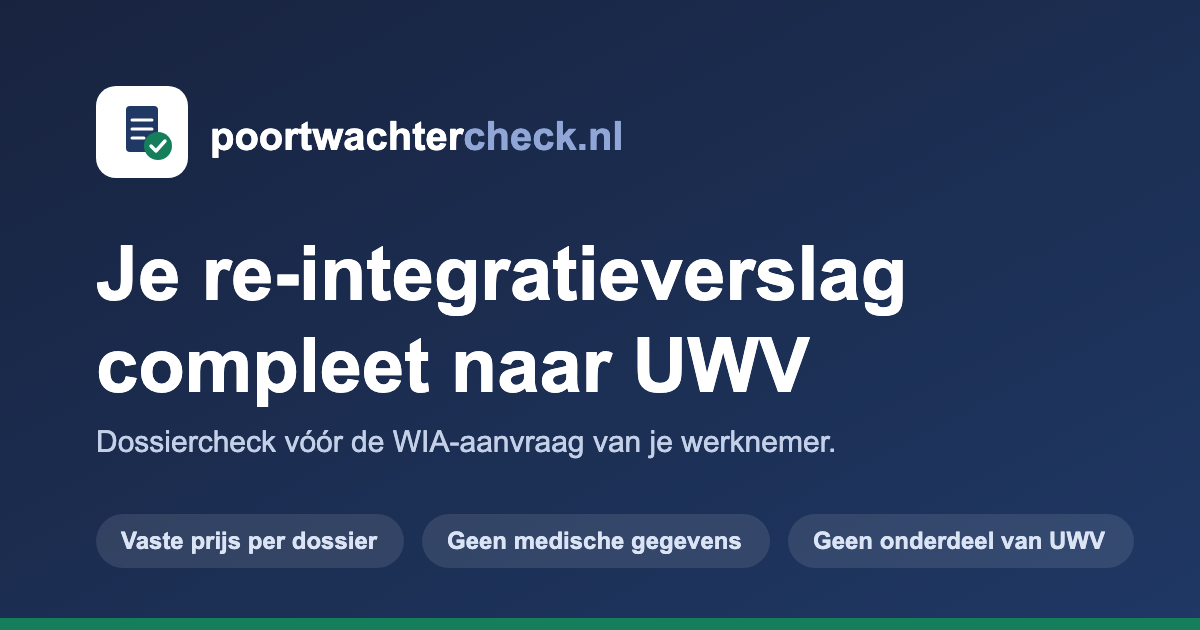
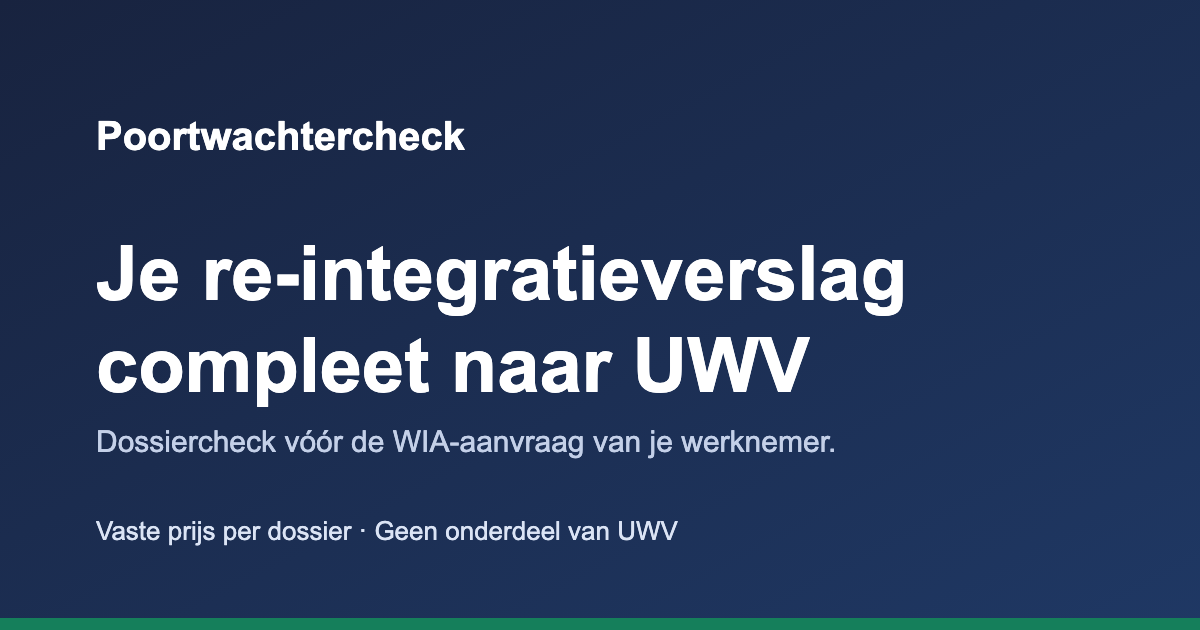
Minder opmaak: woordmerk zonder icoon, geen voorbeeldkaart, iconen of labels
- Logo is nu alleen het woord "Poortwachtercheck"; favicon een P
- Hero zonder voorbeeldkaart en iconenrij, één kolom
- Cijfers als gewone zin in plaats van drie kaarten
- Stappen met gewone cijfers, tarieven zonder label/uitlichting/vinkjes
- "Wat ik wel en niet doe" zonder iconen; geen hoofdletterlabel
- Deelplaatje met woordmerk en een gewone regel tekst

Claude-Session: https://claude.ai/code/session_01YSQY1Be7BCh4PpprnZJgvH

Changed region(s): [[0.0617, 0.1206, 0.5242, 0.3016], [0.0617, 0.8143, 0.6167, 0.8746], [0.6783, 0.8444, 0.925, 0.8746]]

diff --git a/app.js b/app.js
@@ -35,7 +35,7 @@
     return url;
   }
   function Merk({ href, style }) {
-    return /* @__PURE__ */ React.createElement("a", { className: "brand", href: href || "#top", style }, /* @__PURE__ */ React.createElement("span", { className: "mark" }, I.shield), /* @__PURE__ */ React.createElement("span", null, "Poortwachter", /* @__PURE__ */ React.createElement("span", { className: "tld" }, "check")));
+    return /* @__PURE__ */ React.createElement("a", { className: "brand", href: href || "#top", style }, /* @__PURE__ */ React.createElement("span", null, "Poortwachtercheck"));
   }
 
   // src/landing.jsx
@@ -57,23 +57,11 @@
   function DirectNaar() {
     return /* @__PURE__ */ React.createElement("section", { className: "section smal", id: "direct" }, /* @__PURE__ */ React.createElement("div", { className: "wrap" }, /* @__PURE__ */ React.createElement("h2", { className: "kop" }, "Direct naar"), /* @__PURE__ */ React.createElement("div", { className: "direct" }, DIRECT.map((d, i) => /* @__PURE__ */ React.createElement("a", { key: i, href: d.h }, /* @__PURE__ */ React.createElement("span", null, d.t), I.arrowRight)))));
   }
-  var VOORBEELD = [
-    { t: "Probleemanalyse", ok: true },
-    { t: "Plan van aanpak, ondertekend", ok: true },
-    { t: "Eerstejaarsevaluatie", ok: false, n: "ontbreekt" },
-    { t: "Actueel oordeel bedrijfsarts", ok: true },
-    { t: "Eindevaluatie", ok: false, n: "handtekening werknemer mist" }
-  ];
   function Hero() {
-    return /* @__PURE__ */ React.createElement("section", { className: "hero", id: "top" }, /* @__PURE__ */ React.createElement("div", { className: "wrap hero-grid" }, /* @__PURE__ */ React.createElement("div", { className: "reveal" }, /* @__PURE__ */ React.createElement("div", { className: "kop-balk" }, /* @__PURE__ */ React.createElement("h1", null, "Je re-integratieverslag compleet naar UWV"), /* @__PURE__ */ React.createElement("p", { className: "lead lead-breed" }, "Is je werknemer bijna twee jaar ziek? Ik kom langs, loop het verzuimdossier na en zorg dat het verslag volledig en ondertekend klaarligt.")), /* @__PURE__ */ React.createElement("div", { className: "hero-cta" }, /* @__PURE__ */ React.createElement("a", { className: "btn btn-primary btn-lg", href: "#contact" }, "Dossier laten nakijken"), /* @__PURE__ */ React.createElement("a", { className: "btn btn-ghost btn-lg", href: "#checklist" }, "Doe zelf de snelle check")), /* @__PURE__ */ React.createElement("div", { className: "hero-trust" }, /* @__PURE__ */ React.createElement("span", null, I.checkSm, " Vaste prijs per dossier"), /* @__PURE__ */ React.createElement("span", null, I.building, " Bij jou op locatie"), /* @__PURE__ */ React.createElement("span", null, I.lock, " Medische stukken blijven bij de bedrijfsarts"))), /* @__PURE__ */ React.createElement("div", { className: "hero-visual reveal" }, /* @__PURE__ */ React.createElement("div", { className: "dossier-kaart" }, /* @__PURE__ */ React.createElement("div", { className: "dk-kop" }, /* @__PURE__ */ React.createElement("span", { className: "ht-dot" }), "Voorbeeld van een dossiercheck"), /* @__PURE__ */ React.createElement("ul", null, VOORBEELD.map((v, i) => /* @__PURE__ */ React.createElement("li", { key: i, className: v.ok ? "ok" : "mis" }, /* @__PURE__ */ React.createElement("span", { className: "dk-ico" }, v.ok ? I.checkSm : I.x), /* @__PURE__ */ React.createElement("span", { className: "dk-t" }, v.t), !v.ok && /* @__PURE__ */ React.createElement("span", { className: "pill pill-flag" }, v.n)))), /* @__PURE__ */ React.createElement("div", { className: "dk-voet" }, "2 punten om te herstellen v\xF3\xF3r de WIA-aanvraag")))));
+    return /* @__PURE__ */ React.createElement("section", { className: "hero", id: "top" }, /* @__PURE__ */ React.createElement("div", { className: "wrap hero-enkel" }, /* @__PURE__ */ React.createElement("div", { className: "reveal" }, /* @__PURE__ */ React.createElement("div", { className: "kop-balk" }, /* @__PURE__ */ React.createElement("h1", null, "Je re-integratieverslag compleet naar UWV"), /* @__PURE__ */ React.createElement("p", { className: "lead lead-breed" }, "Is je werknemer bijna twee jaar ziek? Ik kom langs, loop het verzuimdossier na en zorg dat het verslag volledig en ondertekend klaarligt.")), /* @__PURE__ */ React.createElement("div", { className: "hero-cta" }, /* @__PURE__ */ React.createElement("a", { className: "btn btn-primary btn-lg", href: "#contact" }, "Dossier laten nakijken"), /* @__PURE__ */ React.createElement("a", { className: "btn btn-ghost btn-lg", href: "#checklist" }, "Doe zelf de snelle check")), /* @__PURE__ */ React.createElement("p", { className: "hero-noot" }, "Vaste prijs per dossier. Ik kom bij je op locatie. Medische stukken blijven bij de bedrijfsarts."))));
   }
-  var CIJFERS = [
-    { g: "ruim 4.000", t: "loonsancties legde UWV op in 2024" },
-    { g: "\xB1 45%", t: "daarvan was administratief: het verslag was niet compleet" },
-    { g: "3 + 6 weken", t: "kost herstel al snel: 3 weken beoordeling door UWV, daarna loopt het loon nog 6 weken door" }
-  ];
   function Probleem() {
-    return /* @__PURE__ */ React.createElement("section", { className: "section tint", id: "waarom" }, /* @__PURE__ */ React.createElement("div", { className: "wrap" }, /* @__PURE__ */ React.createElement("div", { className: "sec-head reveal" }, /* @__PURE__ */ React.createElement("span", { className: "eyebrow" }, /* @__PURE__ */ React.createElement("span", { className: "dot" }), "Waarom dit ertoe doet"), /* @__PURE__ */ React.createElement("h2", null, "Een ontbrekend stuk kan maanden loon kosten"), /* @__PURE__ */ React.createElement("p", null, "UWV kijkt eerst of het re-integratieverslag compleet is, en pas daarna naar de inhoud. Mist er een onderdeel of een handtekening, dan volgt een administratieve loonsanctie: je betaalt het loon langer door, tot het verslag in orde is.")), /* @__PURE__ */ React.createElement("div", { className: "cijfers" }, CIJFERS.map((c, i) => /* @__PURE__ */ React.createElement("div", { className: "cijfer card reveal", key: i }, /* @__PURE__ */ React.createElement("div", { className: "cijfer-g" }, c.g), /* @__PURE__ */ React.createElement("p", null, c.t)))), /* @__PURE__ */ React.createElement("p", { className: "bron reveal" }, "Cijfers: ", /* @__PURE__ */ React.createElement("a", { href: "https://uwvjaarverslag.nl/external/asset/download/project/f9b7da0a-03ec-0000-58b5-7efa5990235f/name/uwv-kwantitatieve-Informatie-2025T3%202.0.pdf", target: "_blank", rel: "noopener" }, "UWV, kwantitatieve informatie"), ". Herstel en doorlooptijd: ", /* @__PURE__ */ React.createElement("a", { href: "https://www.rijksoverheid.nl/documenten/publicaties/2024/09/30/werkproces-uwv-toetsen-riv-en-opleggen-loonsanctie", target: "_blank", rel: "noopener" }, "werkproces UWV toetsen re-integratieverslag"), ". Dit soort sanctie is te voorkomen, omdat het om volledigheid gaat en niet om een oordeel over de re-integratie.")));
+    return /* @__PURE__ */ React.createElement("section", { className: "section tint", id: "waarom" }, /* @__PURE__ */ React.createElement("div", { className: "wrap" }, /* @__PURE__ */ React.createElement("div", { className: "sec-head reveal" }, /* @__PURE__ */ React.createElement("span", { className: "eyebrow" }, /* @__PURE__ */ React.createElement("span", { className: "dot" }), "Waarom dit ertoe doet"), /* @__PURE__ */ React.createElement("h2", null, "Een ontbrekend stuk kan maanden loon kosten"), /* @__PURE__ */ React.createElement("p", null, "UWV kijkt eerst of het re-integratieverslag compleet is, en pas daarna naar de inhoud. Mist er een onderdeel of een handtekening, dan volgt een administratieve loonsanctie: je betaalt het loon langer door, tot het verslag in orde is.")), /* @__PURE__ */ React.createElement("p", { className: "cijfers-tekst reveal" }, "In 2024 legde UWV ruim 4.000 loonsancties op. Bij ongeveer 45% daarvan was het verslag gewoon niet compleet. Herstellen kost al snel drie weken beoordeling door UWV, en daarna loopt het loon nog zes weken door."), /* @__PURE__ */ React.createElement("p", { className: "bron reveal" }, "Cijfers: ", /* @__PURE__ */ React.createElement("a", { href: "https://uwvjaarverslag.nl/external/asset/download/project/f9b7da0a-03ec-0000-58b5-7efa5990235f/name/uwv-kwantitatieve-Informatie-2025T3%202.0.pdf", target: "_blank", rel: "noopener" }, "UWV, kwantitatieve informatie"), ". Herstel en doorlooptijd: ", /* @__PURE__ */ React.createElement("a", { href: "https://www.rijksoverheid.nl/documenten/publicaties/2024/09/30/werkproces-uwv-toetsen-riv-en-opleggen-loonsanctie", target: "_blank", rel: "noopener" }, "werkproces UWV toetsen re-integratieverslag"), ". Dit soort sanctie is te voorkomen, omdat het om volledigheid gaat en niet om een oordeel over de re-integratie.")));
   }
   var ONDERDELEN = [
     { id: "pa", t: "Probleemanalyse van de bedrijfsarts", s: "Rond week 6, plus latere bijstellingen" },
@@ -142,7 +130,6 @@
       naam: "Compleet verzorgd",
       prijs: "vanaf \u20AC 950",
       sub: "per dossier, excl. btw",
-      uitgelicht: true,
       d: "Je wilt dat het geregeld wordt.",
       punten: ["Alles uit de dossiercheck", "Hulp bij de eindevaluatie en het bijwerken van de stukken", "Bewaken dat de bedrijfsarts de medische informatie verstuurt", "Het verslag verzendklaar voor je werknemer"]
     },
@@ -155,16 +142,16 @@
     }
   ];
   function Tarieven() {
-    return /* @__PURE__ */ React.createElement("section", { className: "section", id: "tarieven" }, /* @__PURE__ */ React.createElement("div", { className: "wrap" }, /* @__PURE__ */ React.createElement("div", { className: "sec-head reveal" }, /* @__PURE__ */ React.createElement("span", { className: "eyebrow" }, /* @__PURE__ */ React.createElement("span", { className: "dot" }), "Tarieven"), /* @__PURE__ */ React.createElement("h2", null, "Een vaste prijs per dossier"), /* @__PURE__ */ React.createElement("p", null, "Geen uurtje-factuurtje. Je weet vooraf wat het kost, en dat is een fractie van \xE9\xE9n maand doorbetaald loon.")), /* @__PURE__ */ React.createElement("div", { className: "pakketten" }, PAKKETTEN.map((p, i) => /* @__PURE__ */ React.createElement("div", { className: "pakket card reveal" + (p.uitgelicht ? " uitgelicht" : ""), key: i }, p.uitgelicht && /* @__PURE__ */ React.createElement("span", { className: "pill pill-ok" }, "Alles geregeld"), /* @__PURE__ */ React.createElement("h3", null, p.naam), /* @__PURE__ */ React.createElement("p", { className: "pakket-d" }, p.d), /* @__PURE__ */ React.createElement("div", { className: "pakket-prijs" }, p.prijs), /* @__PURE__ */ React.createElement("div", { className: "pakket-sub" }, p.sub), /* @__PURE__ */ React.createElement("ul", null, p.punten.map((x, j) => /* @__PURE__ */ React.createElement("li", { key: j }, I.checkSm, /* @__PURE__ */ React.createElement("span", null, x)))), /* @__PURE__ */ React.createElement("a", { className: "btn " + (p.uitgelicht ? "btn-primary" : "btn-ghost"), href: mailto(p.naam + " aanvragen") }, "Aanvragen"))))));
+    return /* @__PURE__ */ React.createElement("section", { className: "section", id: "tarieven" }, /* @__PURE__ */ React.createElement("div", { className: "wrap" }, /* @__PURE__ */ React.createElement("div", { className: "sec-head reveal" }, /* @__PURE__ */ React.createElement("span", { className: "eyebrow" }, /* @__PURE__ */ React.createElement("span", { className: "dot" }), "Tarieven"), /* @__PURE__ */ React.createElement("h2", null, "Een vaste prijs per dossier"), /* @__PURE__ */ React.createElement("p", null, "Geen uurtje-factuurtje. Je weet vooraf wat het kost, en dat is een fractie van \xE9\xE9n maand doorbetaald loon.")), /* @__PURE__ */ React.createElement("div", { className: "pakketten" }, PAKKETTEN.map((p, i) => /* @__PURE__ */ React.createElement("div", { className: "pakket card reveal", key: i }, /* @__PURE__ */ React.createElement("h3", null, p.naam), /* @__PURE__ */ React.createElement("p", { className: "pakket-d" }, p.d), /* @__PURE__ */ React.createElement("div", { className: "pakket-prijs" }, p.prijs), /* @__PURE__ */ React.createElement("div", { className: "pakket-sub" }, p.sub), /* @__PURE__ */ React.createElement("ul", null, p.punten.map((x, j) => /* @__PURE__ */ React.createElement("li", { key: j }, x))), /* @__PURE__ */ React.createElement("a", { className: "btn btn-ghost", href: mailto(p.naam + " aanvragen") }, "Aanvragen"))))));
   }
   var AFSPRAKEN = [
-    { icon: I.lock, t: "Ik zie geen medische stukken", d: "Die horen bij de bedrijfsarts. Ik bewaak alleen dat hij ze op tijd naar UWV of je werknemer stuurt." },
-    { icon: I.scale, t: "Ik beloof geen uitkomst", d: "Ik zorg dat het verslag compleet is. Of de re-integratie inhoudelijk voldoende was, beoordeelt UWV." },
-    { icon: I.doc, t: "Afspraken staan op papier", d: "Je krijgt een verwerkersovereenkomst. Voor contact met UWV teken je een machtiging." },
-    { icon: I.shield, t: "Zorgvuldig met het dossier", d: "Ik gebruik de gegevens alleen voor deze opdracht. Kopie\xEBn bewaar ik tot UWV over de WIA-aanvraag heeft beslist." }
+    { t: "Ik zie geen medische stukken", d: "Die horen bij de bedrijfsarts. Ik bewaak alleen dat hij ze op tijd naar UWV of je werknemer stuurt." },
+    { t: "Ik beloof geen uitkomst", d: "Ik zorg dat het verslag compleet is. Of de re-integratie inhoudelijk voldoende was, beoordeelt UWV." },
+    { t: "Afspraken staan op papier", d: "Je krijgt een verwerkersovereenkomst. Voor contact met UWV teken je een machtiging." },
+    { t: "Zorgvuldig met het dossier", d: "Ik gebruik de gegevens alleen voor deze opdracht. Kopie\xEBn bewaar ik tot UWV over de WIA-aanvraag heeft beslist." }
   ];
   function Afspraken() {
-    return /* @__PURE__ */ React.createElement("section", { className: "section tint", id: "afspraken" }, /* @__PURE__ */ React.createElement("div", { className: "wrap compliance" }, /* @__PURE__ */ React.createElement("div", { className: "reveal" }, /* @__PURE__ */ React.createElement("span", { className: "eyebrow" }, /* @__PURE__ */ React.createElement("span", { className: "dot" }), "Wat je van mij mag verwachten"), /* @__PURE__ */ React.createElement("h2", { style: { fontSize: "clamp(27px,3.2vw,38px)", marginTop: 14 } }, "Duidelijk over wat ik wel en niet doe"), /* @__PURE__ */ React.createElement("div", { className: "comp-list" }, AFSPRAKEN.map((c, i) => /* @__PURE__ */ React.createElement("div", { className: "comp-item", key: i }, /* @__PURE__ */ React.createElement("span", { className: "ico" }, c.icon), /* @__PURE__ */ React.createElement("div", null, /* @__PURE__ */ React.createElement("h4", null, c.t), /* @__PURE__ */ React.createElement("p", null, c.d)))))), /* @__PURE__ */ React.createElement("div", { className: "over-mij reveal" }, /* @__PURE__ */ React.createElement("span", { className: "tag" }, "Wie er langskomt"), /* @__PURE__ */ React.createElement("h3", null, "Casemanager verzuim, in opleiding tot arbeidsdeskundige"), /* @__PURE__ */ React.createElement("p", null, "Ik werk als casemanager met werkgevers en werknemers bij langdurig verzuim. Ik weet waar een dossier op vastloopt en waar UWV op let."), /* @__PURE__ */ React.createElement("p", null, "Je schakelt mij in voor het laatste stuk: de eindevaluatie en het verslag. Dat kan ook als je al een arbodienst hebt."), /* @__PURE__ */ React.createElement("a", { className: "btn btn-accent", href: "#contact" }, "Plan een kennismaking"))));
+    return /* @__PURE__ */ React.createElement("section", { className: "section tint", id: "afspraken" }, /* @__PURE__ */ React.createElement("div", { className: "wrap compliance" }, /* @__PURE__ */ React.createElement("div", { className: "reveal" }, /* @__PURE__ */ React.createElement("span", { className: "eyebrow" }, /* @__PURE__ */ React.createElement("span", { className: "dot" }), "Wat je van mij mag verwachten"), /* @__PURE__ */ React.createElement("h2", { style: { fontSize: "clamp(27px,3.2vw,38px)", marginTop: 14 } }, "Duidelijk over wat ik wel en niet doe"), /* @__PURE__ */ React.createElement("div", { className: "comp-list" }, AFSPRAKEN.map((c, i) => /* @__PURE__ */ React.createElement("div", { className: "comp-item", key: i }, /* @__PURE__ */ React.createElement("div", null, /* @__PURE__ */ React.createElement("h4", null, c.t), /* @__PURE__ */ React.createElement("p", null, c.d)))))), /* @__PURE__ */ React.createElement("div", { className: "over-mij reveal" }, /* @__PURE__ */ React.createElement("h3", null, "Casemanager verzuim, in opleiding tot arbeidsdeskundige"), /* @__PURE__ */ React.createElement("p", null, "Ik werk als casemanager met werkgevers en werknemers bij langdurig verzuim. Ik weet waar een dossier op vastloopt en waar UWV op let."), /* @__PURE__ */ React.createElement("p", null, "Je schakelt mij in voor het laatste stuk: de eindevaluatie en het verslag. Dat kan ook als je al een arbodienst hebt."), /* @__PURE__ */ React.createElement("a", { className: "btn btn-accent", href: "#contact" }, "Plan een kennismaking"))));
   }
   var FAQS = [
     { q: "Wat is een administratieve loonsanctie?", a: "UWV toetst eerst of het re-integratieverslag compleet is. Ontbreekt er een verplicht onderdeel, dan kan UWV de re-integratie niet beoordelen en moet je het loon langer doorbetalen. Die verlenging stopt pas nadat je het ontbrekende hebt aangeleverd en UWV dat heeft beoordeeld." },
@@ -181,7 +168,7 @@
   }
   function Contact() {
     const tekst = "Ik wil graag een kennismaking over mijn verzuimdossier.\n\nEerste ziektedag:\nBedrijfsnaam en plaats:\nTelefoonnummer:";
-    return /* @__PURE__ */ React.createElement("section", { className: "section", id: "contact" }, /* @__PURE__ */ React.createElement("div", { className: "wrap" }, /* @__PURE__ */ React.createElement("div", { className: "cta-band reveal" }, /* @__PURE__ */ React.createElement("h2", null, "Laat je dossier nakijken voordat UWV het doet"), /* @__PURE__ */ React.createElement("p", null, "Stuur een bericht met de eerste ziektedag en je telefoonnummer. Ik bel je terug voor een korte kennismaking. Zet geen medische gegevens in je bericht."), /* @__PURE__ */ React.createElement("div", { className: "hero-cta" }, /* @__PURE__ */ React.createElement("a", { className: "btn btn-accent btn-lg", href: mailto("Kennismaking dossiercheck", tekst) }, I.mail, " Stuur een bericht"), /* @__PURE__ */ React.createElement("a", { className: "btn btn-ghost btn-lg", href: "#checklist" }, "Eerst zelf de check doen")))));
+    return /* @__PURE__ */ React.createElement("section", { className: "section", id: "contact" }, /* @__PURE__ */ React.createElement("div", { className: "wrap" }, /* @__PURE__ */ React.createElement("div", { className: "cta-band reveal" }, /* @__PURE__ */ React.createElement("h2", null, "Laat je dossier nakijken voordat UWV het doet"), /* @__PURE__ */ React.createElement("p", null, "Stuur een bericht met de eerste ziektedag en je telefoonnummer. Ik bel je terug voor een korte kennismaking. Zet geen medische gegevens in je bericht."), /* @__PURE__ */ React.createElement("div", { className: "hero-cta" }, /* @__PURE__ */ React.createElement("a", { className: "btn btn-accent btn-lg", href: mailto("Kennismaking dossiercheck", tekst) }, "Stuur een bericht"), /* @__PURE__ */ React.createElement("a", { className: "btn btn-ghost btn-lg", href: "#checklist" }, "Eerst zelf de check doen")))));
   }
   function Footer({ onOpenPrivacy }) {
     const openPrivacy = (e) => {

diff --git a/src/landing.jsx b/src/landing.jsx
@@ -52,18 +52,10 @@ function DirectNaar() {
 }
 
 // Voorbeeld van wat een dossiercheck oplevert: één blik op wat er is en wat mist.
-const VOORBEELD = [
-  { t: "Probleemanalyse", ok: true },
-  { t: "Plan van aanpak, ondertekend", ok: true },
-  { t: "Eerstejaarsevaluatie", ok: false, n: "ontbreekt" },
-  { t: "Actueel oordeel bedrijfsarts", ok: true },
-  { t: "Eindevaluatie", ok: false, n: "handtekening werknemer mist" },
-];
-
 function Hero() {
   return (
     <section className="hero" id="top">
-      <div className="wrap hero-grid">
+      <div className="wrap hero-enkel">
         <div className="reveal">
           <div className="kop-balk">
             <h1>Je re-integratieverslag compleet naar UWV</h1>
@@ -76,37 +68,14 @@ function Hero() {
             <a className="btn btn-primary btn-lg" href="#contact">Dossier laten nakijken</a>
             <a className="btn btn-ghost btn-lg" href="#checklist">Doe zelf de snelle check</a>
           </div>
-          <div className="hero-trust">
-            <span>{I.checkSm} Vaste prijs per dossier</span>
-            <span>{I.building} Bij jou op locatie</span>
-            <span>{I.lock} Medische stukken blijven bij de bedrijfsarts</span>
-          </div>
-        </div>
-        <div className="hero-visual reveal">
-          <div className="dossier-kaart">
-            <div className="dk-kop"><span className="ht-dot"></span>Voorbeeld van een dossiercheck</div>
-            <ul>
-              {VOORBEELD.map((v, i) => (
-                <li key={i} className={v.ok ? "ok" : "mis"}>
-                  <span className="dk-ico">{v.ok ? I.checkSm : I.x}</span>
-                  <span className="dk-t">{v.t}</span>
-                  {!v.ok && <span className="pill pill-flag">{v.n}</span>}
-                </li>
-              ))}
-            </ul>
-            <div className="dk-voet">2 punten om te herstellen vóór de WIA-aanvraag</div>
-          </div>
+          <p className="hero-noot">
+            Vaste prijs per dossier. Ik kom bij je op locatie. Medische stukken blijven bij de bedrijfsarts.
+          </p>
         </div>
       </div>
     </section>
   );
 }
-
-const CIJFERS = [
-  { g: "ruim 4.000", t: "loonsancties legde UWV op in 2024" },
-  { g: "± 45%", t: "daarvan was administratief: het verslag was niet compleet" },
-  { g: "3 + 6 weken", t: "kost herstel al snel: 3 weken beoordeling door UWV, daarna loopt het loon nog 6 weken door" },
-];
 
 function Probleem() {
   return (
@@ -121,14 +90,11 @@ function Probleem() {
             loonsanctie: je betaalt het loon langer door, tot het verslag in orde is.
           </p>
         </div>
-        <div className="cijfers">
-          {CIJFERS.map((c, i) => (
-            <div className="cijfer card reveal" key={i}>
-              <div className="cijfer-g">{c.g}</div>
-              <p>{c.t}</p>
-            </div>
-          ))}
-        </div>
+        <p className="cijfers-tekst reveal">
+          In 2024 legde UWV ruim 4.000 loonsancties op. Bij ongeveer 45% daarvan was het verslag
+          gewoon niet compleet. Herstellen kost al snel drie weken beoordeling door UWV, en daarna
+          loopt het loon nog zes weken door.
+        </p>
         <p className="bron reveal">
           Cijfers: <a href="https://uwvjaarverslag.nl/external/asset/download/project/f9b7da0a-03ec-0000-58b5-7efa5990235f/name/uwv-kwantitatieve-Informatie-2025T3%202.0.pdf" target="_blank" rel="noopener">UWV, kwantitatieve informatie</a>.
           Herstel en doorlooptijd: <a href="https://www.rijksoverheid.nl/documenten/publicaties/2024/09/30/werkproces-uwv-toetsen-riv-en-opleggen-loonsanctie" target="_blank" rel="noopener">werkproces UWV toetsen re-integratieverslag</a>.
@@ -281,7 +247,7 @@ const PAKKETTEN = [
     punten: ["Bezoek op locatie", "Controle van elk onderdeel, elke datum en handtekening", "Heldere lijst met wat ontbreekt en wat je moet doen"],
   },
   {
-    naam: "Compleet verzorgd", prijs: "vanaf € 950", sub: "per dossier, excl. btw", uitgelicht: true,
+    naam: "Compleet verzorgd", prijs: "vanaf € 950", sub: "per dossier, excl. btw",
     d: "Je wilt dat het geregeld wordt.",
     punten: ["Alles uit de dossiercheck", "Hulp bij de eindevaluatie en het bijwerken van de stukken", "Bewaken dat de bedrijfsarts de medische informatie verstuurt", "Het verslag verzendklaar voor je werknemer"],
   },
@@ -303,14 +269,13 @@ function Tarieven() {
         </div>
         <div className="pakketten">
           {PAKKETTEN.map((p, i) => (
-            <div className={"pakket card reveal" + (p.uitgelicht ? " uitgelicht" : "")} key={i}>
-              {p.uitgelicht && <span className="pill pill-ok">Alles geregeld</span>}
+            <div className="pakket card reveal" key={i}>
               <h3>{p.naam}</h3>
               <p className="pakket-d">{p.d}</p>
               <div className="pakket-prijs">{p.prijs}</div>
               <div className="pakket-sub">{p.sub}</div>
-              <ul>{p.punten.map((x, j) => <li key={j}>{I.checkSm}<span>{x}</span></li>)}</ul>
-              <a className={"btn " + (p.uitgelicht ? "btn-primary" : "btn-ghost")} href={mailto(p.naam + " aanvragen")}>Aanvragen</a>
+              <ul>{p.punten.map((x, j) => <li key={j}>{x}</li>)}</ul>
+              <a className="btn btn-ghost" href={mailto(p.naam + " aanvragen")}>Aanvragen</a>
             </div>
           ))}
         </div>
@@ -320,10 +285,10 @@ function Tarieven() {
 }
 
 const AFSPRAKEN = [
-  { icon: I.lock, t: "Ik zie geen medische stukken", d: "Die horen bij de bedrijfsarts. Ik bewaak alleen dat hij ze op tijd naar UWV of je werknemer stuurt." },
-  { icon: I.scale, t: "Ik beloof geen uitkomst", d: "Ik zorg dat het verslag compleet is. Of de re-integratie inhoudelijk voldoende was, beoordeelt UWV." },
-  { icon: I.doc, t: "Afspraken staan op papier", d: "Je krijgt een verwerkersovereenkomst. Voor contact met UWV teken je een machtiging." },
-  { icon: I.shield, t: "Zorgvuldig met het dossier", d: "Ik gebruik de gegevens alleen voor deze opdracht. Kopieën bewaar ik tot UWV over de WIA-aanvraag heeft beslist." },
+  { t: "Ik zie geen medische stukken", d: "Die horen bij de bedrijfsarts. Ik bewaak alleen dat hij ze op tijd naar UWV of je werknemer stuurt." },
+  { t: "Ik beloof geen uitkomst", d: "Ik zorg dat het verslag compleet is. Of de re-integratie inhoudelijk voldoende was, beoordeelt UWV." },
+  { t: "Afspraken staan op papier", d: "Je krijgt een verwerkersovereenkomst. Voor contact met UWV teken je een machtiging." },
+  { t: "Zorgvuldig met het dossier", d: "Ik gebruik de gegevens alleen voor deze opdracht. Kopieën bewaar ik tot UWV over de WIA-aanvraag heeft beslist." },
 ];
 
 function Afspraken() {
@@ -336,14 +301,12 @@ function Afspraken() {
           <div className="comp-list">
             {AFSPRAKEN.map((c, i) => (
               <div className="comp-item" key={i}>
-                <span className="ico">{c.icon}</span>
                 <div><h4>{c.t}</h4><p>{c.d}</p></div>
               </div>
             ))}
           </div>
         </div>
         <div className="over-mij reveal">
-          <span className="tag">Wie er langskomt</span>
           <h3>Casemanager verzuim, in opleiding tot arbeidsdeskundige</h3>
           <p>
             Ik werk als casemanager met werkgevers en werknemers bij langdurig verzuim. Ik
@@ -405,7 +368,7 @@ function Contact() {
           <h2>Laat je dossier nakijken voordat UWV het doet</h2>
           <p>Stuur een bericht met de eerste ziektedag en je telefoonnummer. Ik bel je terug voor een korte kennismaking. Zet geen medische gegevens in je bericht.</p>
           <div className="hero-cta">
-            <a className="btn btn-accent btn-lg" href={mailto("Kennismaking dossiercheck", tekst)}>{I.mail} Stuur een bericht</a>
+            <a className="btn btn-accent btn-lg" href={mailto("Kennismaking dossiercheck", tekst)}>Stuur een bericht</a>
             <a className="btn btn-ghost btn-lg" href="#checklist">Eerst zelf de check doen</a>
           </div>
         </div>

diff --git a/styles.css b/styles.css
@@ -499,3 +499,16 @@ html.js-reveal .reveal.in { animation: revUp .6s var(--ease) both; }
 .site .nav-inner { gap: 18px; }
 @media (max-width: 1040px) { .site .nav-links a:not(:first-child) { display: none; } }
 @media (max-width: 560px) { .site .nav-cta .btn-primary { display: none; } }
+
+/* ---- Minder opmaak (21-11): woordmerk zonder icoon, geen kaartjes/iconen/labels ---- */
+.site .brand { gap: 0; font-size: 21px; font-weight: 700; letter-spacing: -.01em; color: var(--navy-900); }
+.site .footer .brand { color: #fff; }
+.site .hero-enkel > div { padding: 56px 0; max-width: 760px; }
+.site .hero-noot { color: rgba(255,255,255,.8); font-size: 15.5px; margin-top: 22px; }
+.cijfers-tekst { margin-top: 22px; max-width: 68ch; font-size: 17.5px; color: var(--ink); }
+.site .step .num { display: block; width: auto; height: auto; background: none; color: var(--navy); border-radius: 0; font-size: 22px; font-weight: 700; }
+.site .step h3 { margin-top: 6px; }
+.site .pakket ul { list-style: disc; padding-left: 20px; gap: 6px; }
+.site .pakket li { display: list-item; }
+.site .comp-item { padding-left: 0; }
+@media (max-width: 900px) { .site .hero-enkel > div { padding: 36px 0; } }

diff --git a/src/merk.jsx b/src/merk.jsx
@@ -1,6 +1,5 @@
 /* Merknaam, contactadres en paden die beide pagina's delen. */
 
-import { I } from "./data.jsx";
 
 export const MERK = "Poortwachtercheck";
 export const CONTACT_MAIL = "contact@poortwachtercheck.nl";
@@ -20,8 +19,7 @@ export function mailto(onderwerp, tekst) {
 export function Merk({ href, style }) {
   return (
     <a className="brand" href={href || "#top"} style={style}>
-      <span className="mark">{I.shield}</span>
-      <span>Poortwachter<span className="tld">check</span></span>
+      <span>Poortwachtercheck</span>
     </a>
   );
 }
